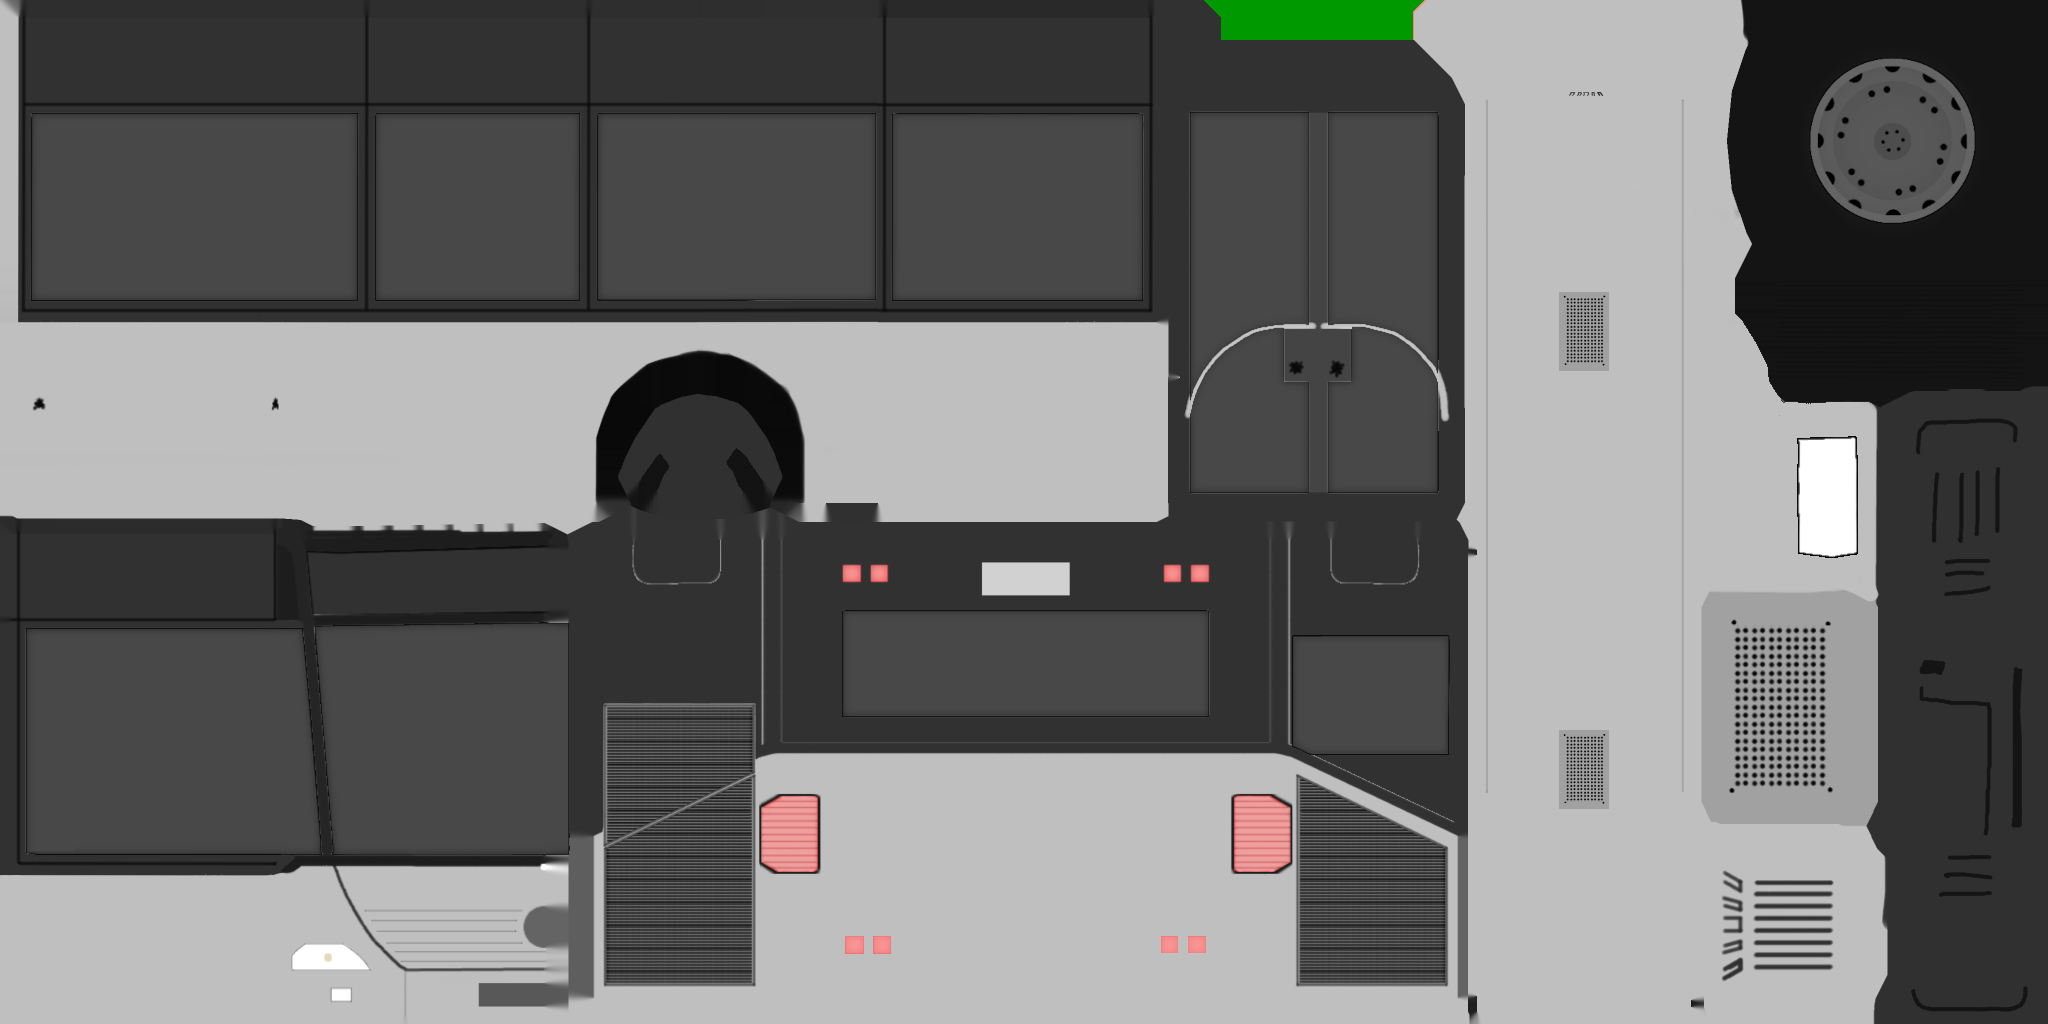
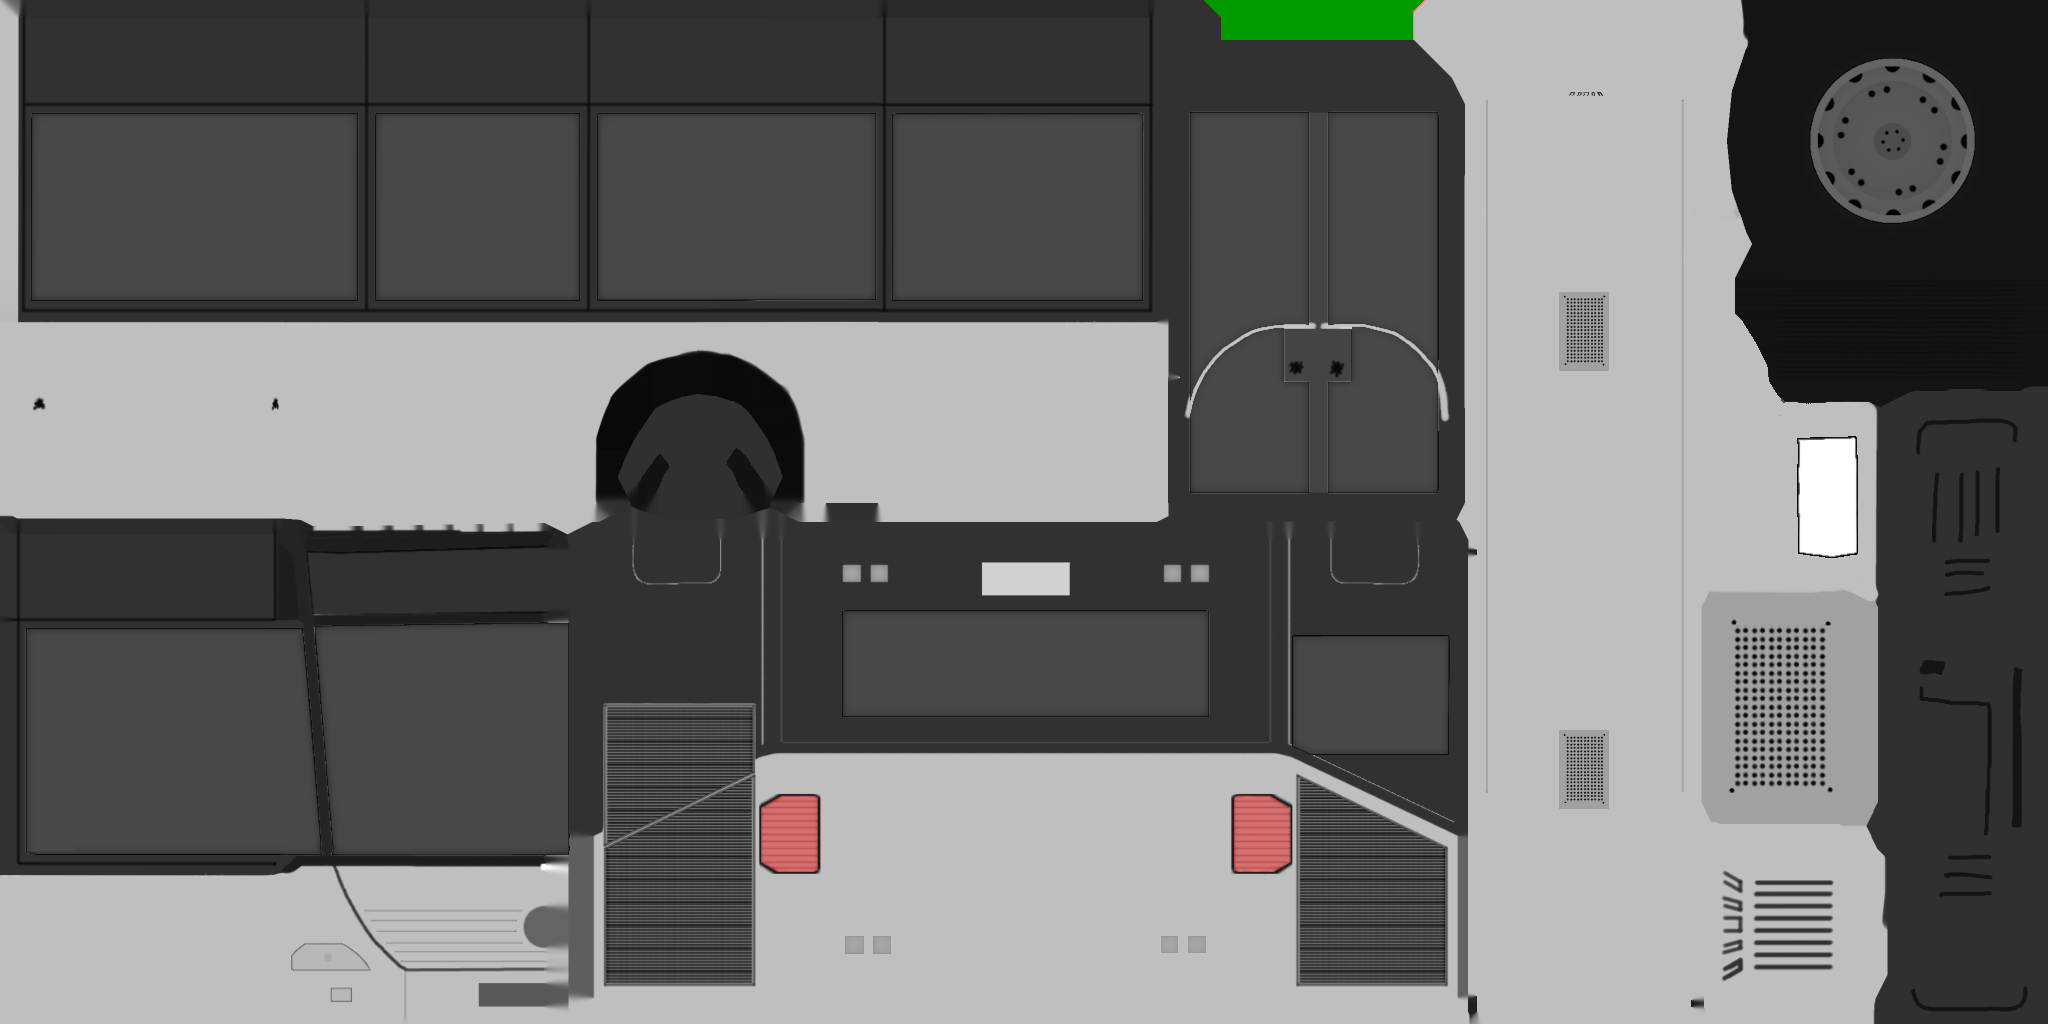
bloom!

diff --git a/src/opengl/post_passes.hpp b/src/opengl/post_passes.hpp
@@ -55,98 +55,157 @@ public:
 };
 
 struct BloomRenderer {
+	SERIALIZE(BloomRenderer, bloom_fac, filter_radius, low_mip, prefilter_clamp, prefilter_clamp_val, prefilter_threshold, prefilter_knee)
 	
-	Shader* shad_downsample = g_shaders.compile("post_bloom", {{"PASS","1"}});
-	Shader* shad_upsample   = g_shaders.compile("post_bloom", {{"PASS","2"}});
+	Shader* shad_downsample0 = g_shaders.compile("post_bloom", {{"PASS","0"}});
+	Shader* shad_downsample  = g_shaders.compile("post_bloom", {{"PASS","1"}});
+	Shader* shad_upsample    = g_shaders.compile("post_bloom", {{"PASS","2"}});
 
 	Render_Texture downsample;
 	Render_Texture upsample;
 
 	Sampler sampler = make_sampler("bloom sampler", FILTER_MIPMAPPED, GL_CLAMP_TO_EDGE);
 
-	bool _enable = false; // also deallocate entire class if disabled like in shadow renderer
-	
+	bool _enable = true; // also deallocate entire class if disabled like in shadow renderer
+	float bloom_fac = 0.05f;
+
+	float filter_radius = 1.50f;
+
 	int2 full_res;
 	int max_mips = 0;
 	int mips = 0;
 
 	int low_mip = 4;
 
+	bool prefilter_clamp = false;
+	float prefilter_clamp_val = 20;
+	float prefilter_threshold = 1;
+	float prefilter_knee = 0.125f;
+
+	bool need_resize = true;
+	
+	std::vector<int2> mip_sizes;
 	std::vector<Fbo> down_fbos;
 	std::vector<Fbo> up_fbos;
 
 	int _visualize_mip = 0;
 
 	void imgui () {
-		if (ImGui::TreeNode("Bloom")) {
-			ImGui::Checkbox("enable", &_enable);
+		if (imgui_Header("Bloom")) {
+			ImGui::Checkbox("Enable", &_enable);
+			ImGui::SliderFloat("Bloom Strength", &bloom_fac, 0,1);
+			
+			ImGui::SliderFloat("Filter Radius", &filter_radius, 0,5);
 
-			ImGui::SliderInt("Lowest mip", &low_mip, 0, max_mips-2);
+			ImGui::SetNextItemWidth(-160);
+			if (ImGui::SliderInt("Lowest mip", &low_mip, 0, max_mips-2))
+				need_resize = true;
 			ImGui::SameLine();
-			int2 low_res = full_res >> (mips-1);
+			int2 low_res = max(full_res >> (mips-1), 1);
 			ImGui::Text("#%d - %dx%d", mips-1, low_res.x, low_res.y);
-#
+
+			ImGui::SeparatorText("Prefilter");
+			ImGui::SetNextItemWidth(-200);
+			ImGui::Checkbox("Clamp", &prefilter_clamp);
+			ImGui::SameLine();
+			ImGui::SetNextItemWidth(200);
+			ImGui::DragFloat("##clamp_val", &prefilter_clamp_val, 0.1f);
+
+			ImGui::SliderFloat("Threshold", &prefilter_threshold, 0,3);
+			ImGui::SliderFloat("Knee", &prefilter_knee, 0,prefilter_threshold);
+			prefilter_knee = min(prefilter_knee, prefilter_threshold);
+
 			ImGui::SliderInt("_visualize_mip", &_visualize_mip, 0, mips-1);
 
-			ImGui::TreePop();
+			ImGui::PopID();
 		}
 	}
 
 	void resize (int2 lighting_res) {
 		full_res = max(lighting_res / 2, 1);
 		max_mips = calc_mipmaps(full_res.x, full_res.y);
-		mips = clamp(max_mips - low_mip, 0, max_mips);
+		mips = clamp(max_mips - low_mip, 1, max_mips);
 
 		downsample = Render_Texture("bloom_downsample", full_res, post_light_col_format, mips);
 		upsample   = Render_Texture("bloom_upsample"  , full_res, post_light_col_format, mips-1);
 
+		mip_sizes.resize(mips);
 		down_fbos.resize(mips);
 		up_fbos.resize(mips-1);
-		for (int mip=0; mip < mips  ; mip++) down_fbos[mip] = single_attach_fbo("bloom_up_fbo", downsample, mip);
-		for (int mip=0; mip < mips-1; mip++) up_fbos  [mip] = single_attach_fbo("bloom_down_fbo", downsample, mip);
+
+		for (int mip=0; mip < mips  ; mip++) down_fbos[mip] = single_attach_fbo("bloom_down_fbo", downsample, mip);
+		for (int mip=0; mip < mips-1; mip++) up_fbos  [mip] = single_attach_fbo("bloom_up_fbo", upsample, mip);
+		
+		int2 res = full_res;
+		for (int mip=0; mip<mips; mip++) {
+			mip_sizes[mip] = res;
+			res = max(res / 2, 1);
+		}
+
+		need_resize = false;
 	}
 
 	void render (StateManager& state, LightingFbo& light_buf) {
 		ZoneScoped;
 		OGL_TRACE("bloom");
 		
+		glUseProgram(shad_downsample0->prog);
+
+		{
+			auto& res = mip_sizes[0];
+
+			glBindFramebuffer(GL_FRAMEBUFFER, down_fbos[0]);
+			glViewport(0, 0, res.x, res.y);
+		
+			state.bind_textures(shad_downsample0, {
+				{ "input", light_buf.col, sampler }
+			});
+			shad_downsample0->set_uniform("input_mip", 0.0f);
+			shad_downsample0->set_uniform("texel_sz", 1.0f / (float2)res);
+			
+			assert(prefilter_knee <= prefilter_threshold);
+			shad_downsample0->set_uniform("prefilter_clamp", prefilter_clamp ? prefilter_clamp_val : INF);
+			shad_downsample0->set_uniform("prefilter_threshold", prefilter_threshold);
+			shad_downsample0->set_uniform("prefilter_knee", max(prefilter_knee, 0.001f));
+
+			draw_fullscreen_triangle(state);
+		}
+
 		glUseProgram(shad_downsample->prog);
 
-		int2 res = full_res;
-		for (int mip=0; mip <= mips; mip++) {
+		for (int mip=1; mip<mips; mip++) {
+			auto& res = mip_sizes[mip];
+
 			glBindFramebuffer(GL_FRAMEBUFFER, down_fbos[mip]);
 			glViewport(0, 0, res.x, res.y);
 		
 			state.bind_textures(shad_downsample, {
-				{ "input", mip == 0 ? light_buf.col : downsample, sampler }
+				{ "input", downsample, sampler }
 			});
-			shad_downsample->set_uniform("input_mip", (float)(mip == 0 ? 0 : mip-1));
+			shad_downsample->set_uniform("input_mip", (float)(mip-1));
 			shad_downsample->set_uniform("texel_sz", 1.0f / (float2)res);
 
 			draw_fullscreen_triangle(state);
-
-			res = max(res / 2, 1);
 		}
 
 		glUseProgram(shad_upsample->prog);
 
-		int2 res = full_res;
-		for (int mip = last_mip-1; mip >= 0; mip--) {
+		for (int mip=mips-2; mip>=0; mip--) {
+			auto& res = mip_sizes[mip];
+
 			glBindFramebuffer(GL_FRAMEBUFFER, up_fbos[mip]);
 			glViewport(0, 0, res.x, res.y);
 
-			bool first = mip == mips-1 - low_mip;
-			state.bind_textures(shad_downsample, {
-				{ "blur_tex", first ? downsample : upsample },
-				{ "add_tex",  downsample },
+			state.bind_textures(shad_upsample, {
+				{ "blur_tex", mip == mips-2 ? downsample : upsample, sampler },
+				{ "add_tex",  downsample, sampler },
 			});
-			shad_downsample->set_uniform("blur_mip", (float)(mip == 0 ? 0 : mip-1));
-			shad_downsample->set_uniform("add_mip", (float)(mip == 0 ? 0 : mip-1));
-			shad_downsample->set_uniform("texel_sz", 1.0f / (float2)res);
+			shad_upsample->set_uniform("blur_mip", (float)(mip+1));
+			shad_upsample->set_uniform("add_mip", (float)mip);
+			shad_upsample->set_uniform("texel_sz", 1.0f / (float2)res);
+			shad_upsample->set_uniform("filter_radius", filter_radius);
 
 			draw_fullscreen_triangle(state);
-
-			res = max(res / 2, 1);
 		}
 
 		glBindFramebuffer(GL_FRAMEBUFFER, 0);

diff --git a/src/opengl/render_passes.hpp b/src/opengl/render_passes.hpp
@@ -139,7 +139,7 @@ struct PBR_Render {
 	}
 
 	void imgui () {
-		if (ImGui::TreeNode("PBR")) {
+		if (imgui_Header("PBR")) {
 			ImGui::Checkbox("freeze_redrawing", &freeze_redrawing);
 
 			recreate_brdf = ImGui::SliderInt("brdf_LUT_res", &brdf_LUT_res, 1, 1024, "%d", ImGuiSliderFlags_Logarithmic) || recreate_brdf;
@@ -158,7 +158,7 @@ struct PBR_Render {
 				return ImGui::DragInt("##sampler_per_res", &sampler_per_res[i], 0.1f, 1,4*1024, "%d", ImGuiSliderFlags_Logarithmic);
 			}, true, false, false);
 
-			ImGui::TreePop();
+			ImGui::PopID();
 		}
 	}
 
@@ -468,7 +468,7 @@ struct DirectionalCascadedShadowmap {
 		float bias_max_world = 10.0f;
 		
 		void imgui (DirectionalCascadedShadowmap* shadowmap) {
-			if (!ImGui::TreeNode("DirectionalShadowmap")) return;
+			if (!imgui_Header("DirectionalShadowmap")) return;
 			
 			ImGui::Checkbox("enabled", &enabled);
 
@@ -486,7 +486,7 @@ struct DirectionalCascadedShadowmap {
 			ImGui::DragFloat("bias_fac", &bias_fac_world, 0.1f);
 			ImGui::DragFloat("bias_max", &bias_max_world, 0.1f);
 
-			ImGui::TreePop();
+			ImGui::PopID();
 
 			if (shadowmap) shadowmap->tex_changed = shadowmap->tex_changed || changed;
 		}
@@ -928,7 +928,7 @@ struct DefferedPointLightRenderer {
 
 // framebuffer for rendering at different resolution and to make sure we get float buffers
 struct RenderPasses {
-	SERIALIZE(RenderPasses, renderscale, shadowmap_opt)
+	SERIALIZE(RenderPasses, renderscale, shadowmap_opt, bloom)
 
 	render::RenderScale renderscale;
 	Sampler renderscale_sampler         = make_sampler("renderscale_sampler", FILTER_MIPMAPPED, GL_CLAMP_TO_EDGE);
@@ -969,8 +969,10 @@ struct RenderPasses {
 		if (renderscale.update(window_size)) {
 			gbuf.resize(renderscale.size);
 			light_fbo = LightingFbo("lighting_fbo", renderscale.size, gbuf.depth, true);
-			bloom.resize(renderscale.size);
+			bloom.need_resize = true;
 		}
+		if (bloom.need_resize)
+			bloom.resize(renderscale.size);
 	}
 
 	void begin_geometry_pass (StateManager& state) {
@@ -1046,8 +1048,13 @@ struct RenderPasses {
 			
 			state.bind_textures(shad_post, {
 				{ "lighting_fbo", light_fbo.col, get_renderscale_sampler() },
-				{ "bloom", bloom.downsample, bloom.sampler },
+				{ "bloom1", bloom.downsample, bloom.sampler },
+				{ "bloom2", bloom.upsample, bloom.sampler },
 			});
+			shad_post->set_uniform("_visualize_mip", (float)bloom._visualize_mip);
+
+			shad_post->set_uniform("bloom_fac", bloom._enable ? bloom.bloom_fac : 0.0f);
+
 			draw_fullscreen_triangle(state);
 		}
 

diff --git a/src/assets.hpp b/src/assets.hpp
@@ -14,12 +14,12 @@ struct LOD_Func {
 	float fac  = 0.45f;
 
 	void imgui () {
-		if (ImGui::TreeNode("LOD")) {
+		if (imgui_Header("LOD")) {
 
 			ImGui::DragFloat("bias", &bias, 0.1f);
 			ImGui::DragFloat("fac", &fac, 0.1f, 0.0f);
 			
-			ImGui::TreePop();
+			ImGui::PopID();
 		}
 	}
 
@@ -230,13 +230,19 @@ struct PropAsset : public Asset {
 	}
 };
 struct TrafficLightAsset : public Asset {
-	SERIALIZE(TrafficLightAsset, mast_prop, signal_prop, mast_base, mast_dir)
+	SERIALIZE(TrafficLightAsset, mast_prop, signal_prop, mast_base, mast_dir, colors)
 
 	AssetPtr<PropAsset> mast_prop = dummy_asset<PropAsset>();
 	AssetPtr<PropAsset> signal_prop = dummy_asset<PropAsset>();
 
 	float3 mast_base = float3(0,0,4);
 	float3 mast_dir = float3(-1,0,0);
+	
+	lrgb colors[3] = {
+		lrgb(1.0f,0.1f,0.1f),
+		lrgb(1.0f,1.0f,0.1f),
+		lrgb(0.1f,1.0f,0.1f),
+	};
 
 	float3 get_signal_pos (float x) {
 		x -= mast_base.x;
@@ -248,6 +254,10 @@ struct TrafficLightAsset : public Asset {
 		bool changed = ImGui::DragFloat3("mast_base", &mast_base.x, 0.1f);
 		changed = ImGui::DragFloat3("mast_dir", &mast_dir.x, 0.1f) || changed;
 		mast_dir = normalizesafe(mast_dir);
+
+		imgui_ColorEdit("Signal Red Color",    &colors[0]);
+		imgui_ColorEdit("Signal Yellow Color", &colors[1]);
+		imgui_ColorEdit("Signal Green Color",  &colors[2]);
 		return changed;
 	}
 

diff --git a/src/network.hpp b/src/network.hpp
@@ -804,13 +804,6 @@ struct TrafficLightBehavior {
 	}
 
 	void set_color (lrgb* R, lrgb* Y, lrgb* G, TrafficSignalState signal) {
-		constexpr lrgb red    = lrgb(1,0,0); // TODO: make customizable
-		constexpr lrgb yellow = lrgb(1,1,0);
-		constexpr lrgb green  = lrgb(0,1,0);
-
-		*R = signal == TrafficSignalState::RED ? red : lrgb(0);
-		*Y = signal == TrafficSignalState::YELLOW ? yellow : lrgb(0);
-		*G = signal == TrafficSignalState::GREEN ? green : lrgb(0);
 	}
 
 	// In order of segments, then in order of incoming lanes
@@ -822,8 +815,12 @@ struct TrafficLightBehavior {
 			for (auto in_lane : seg->in_lanes(node)) {
 				auto state = get_signal(node, seg_i, in_lane);
 
+				auto* asset = in_lane.seg->asset->traffic_light_prop.get();
+
 				auto* colors = push_back(signal_colors, 1);
-				set_color(&colors->colors[0], &colors->colors[1], &colors->colors[2], state);
+				colors->colors[0] = state == TrafficSignalState::RED    ? asset->colors[0] : lrgb(0);
+				colors->colors[1] = state == TrafficSignalState::YELLOW ? asset->colors[1] : lrgb(0);
+				colors->colors[2] = state == TrafficSignalState::GREEN  ? asset->colors[2] : lrgb(0);
 			}
 		}
 	}

diff --git a/src/game_camera.hpp b/src/game_camera.hpp
@@ -22,6 +22,7 @@ struct GameCamera {
 	float  zoom_smooth_fac = 16; // 0 to disable
 	float  zoom_speed = 0.25f;
 
+	float default_vfov = deg(50);
 	float vfov = deg(50);
 
 	float clip_near = 1.0f/4;
@@ -48,8 +49,11 @@ struct GameCamera {
 		float3 rot_deg = to_degrees(rot_aer);
 		if (ImGui::DragFloat3("rot_aer", &rot_deg.x, 0.3f))
 			rot_aer = to_radians(rot_deg);
-
-		ImGui::SliderAngle("vfov", &vfov, 0,180);
+		
+		ImGui::SliderAngle("default FOV", &default_vfov, 0,180);
+		ImGui::SliderAngle("FOV (vertical)", &vfov, 0,180);
+		if (ImGui::Button("reset vfov"))
+			vfov = default_vfov;
 
 		ImGui::Text("cur_speed: %.3f", cur_speed);
 
@@ -126,6 +130,9 @@ struct GameCamera {
 				float delta_log = -0.1f * I.mouse_wheel_delta;
 				// TODO: might want to smooth fov change too?
 				vfov = clamp(powf(2.0f, log2f(vfov) + delta_log), deg(1.0f/10), deg(170));
+
+				if (I.buttons[binds.modifier].is_down && delta_log != 0)
+					vfov = default_vfov;
 			}
 		}
 	}

diff --git a/src/opengl/gl_dbgdraw.hpp b/src/opengl/gl_dbgdraw.hpp
@@ -179,7 +179,7 @@ struct glDebugDraw {
 	}
 
 	void imgui (TextRenderer& text) {
-		if (ImGui::TreeNode("Debug Draw")) {
+		if (imgui_Header("Debug Draw")) {
 
 			ImGui::Checkbox("wireframe", &wireframe);
 			ImGui::SameLine();
@@ -196,7 +196,7 @@ struct glDebugDraw {
 
 			text.imgui();
 
-			ImGui::TreePop();
+			ImGui::PopID();
 		}
 	}
 
